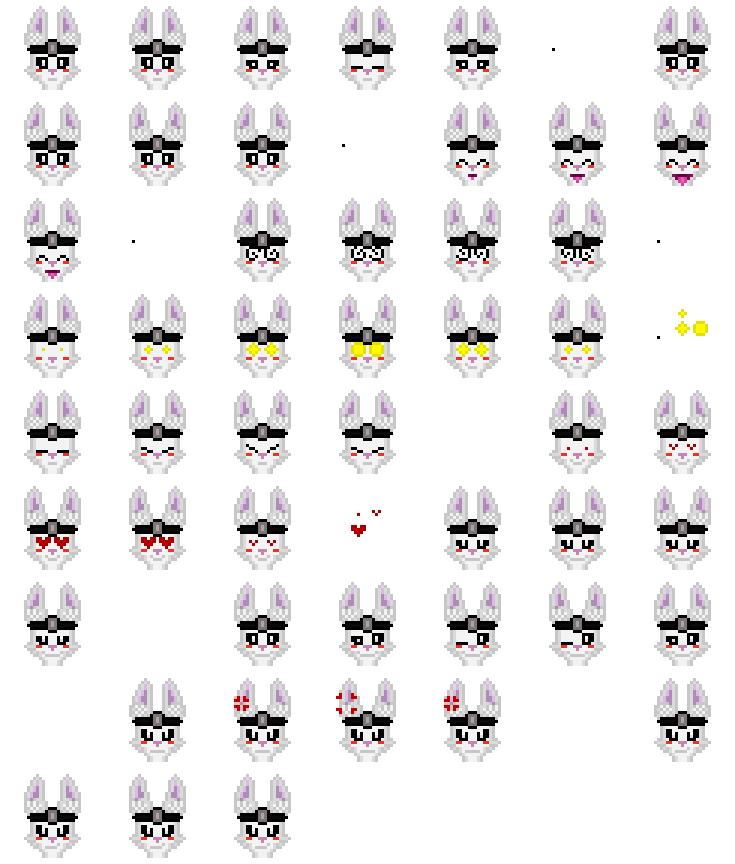
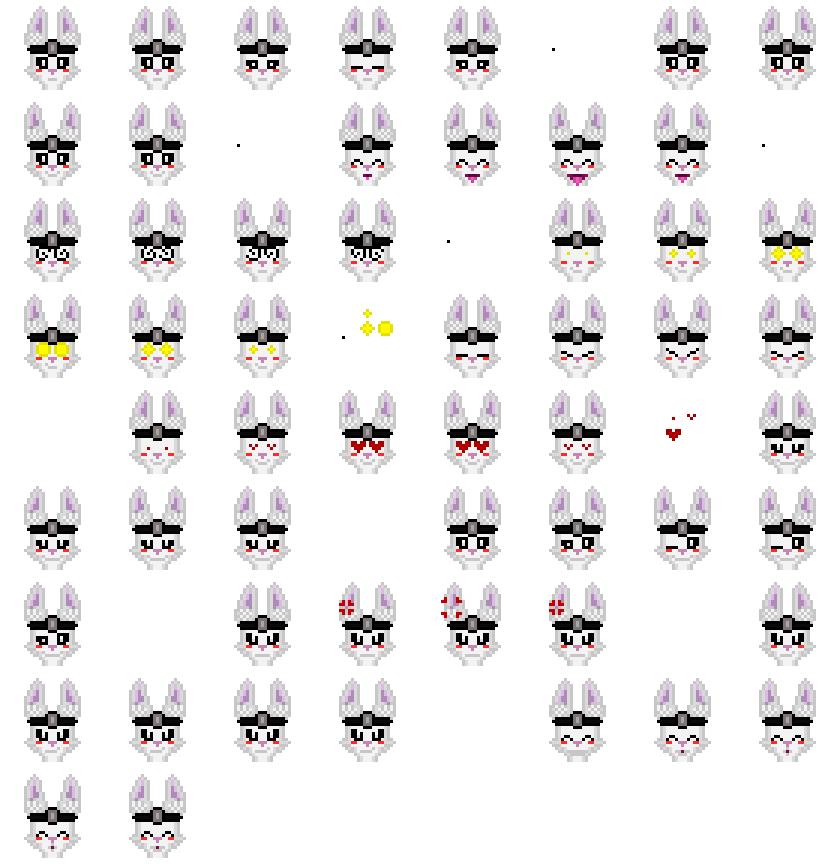
saving deaugh progress

diff --git a/scripts/npcScripts/wolf.js b/scripts/npcScripts/wolf.js
@@ -1,0 +1,84 @@
+//basic npc class of wolf.
+class wolf extends npc{
+    // every class needs constructor
+    constructor(scene, xPos, yPos,npcType){
+      
+      super(scene, xPos, yPos, 'deaugh');
+
+      //then we add new instance into the scene. 
+      scene.add.existing(this);
+
+      //then we call this next line to give it collision
+      scene.physics.add.existing(this);
+
+      this.anims.create({ key: 'idle', frames: this.anims.generateFrameNames('deaugh', { start: 0, end: 3 }), frameRate: 7, repeat: -1 });
+      
+      //makes a key promptsa object to be displayed to the user
+       this.npcKeyPrompts = new keyPrompts(scene, xPos, yPos + 80,'keyPrompts');
+       this.npcKeyPrompts.visible = false;
+       this.promptCooldown = false;
+ 
+       //more variables which help the sign object tell when to display prompts and textbox
+       this.playerOverlapingNpc = false;
+       this.safeToSpeak = false;
+       this.npcId = 0;
+       this.activated = false;
+       this.npcType = npcType;
+
+       this.flag = "";
+       this.dialogueCompleted = false;
+       this.completedText = false;
+
+       this.animationPlayed = false;
+       this.scene = scene;
+
+       this.inDialogue = false;
+
+       this.formattingText = false;
+
+       this.isPlayerControlled = false;
+
+       //this.body.setGravityY(600); 
+
+        this.setSize(60,200,true);
+        this.setOffset(185, 91);
+ 
+       if(this.npcType === 'healingPlayer'){
+          this.anims.play('idle');
+       }
+
+  }
+
+  //overwrites base npc classes function with flagging logic specific to wolf.
+  flagLogic(){
+    
+    //logic to decide what the npcs activated function is.
+    if(this.npcType === 'healingPlayer'){
+      this.healingPlayer();
+    }else{
+      
+      this.default();
+    }
+  }
+
+  MoveNPC(){
+  
+  }
+
+  healingPlayer(){
+
+    console.log("this.isPlayerControlled: ", this.isPlayerControlled)
+
+    //if(this.isPlayerControlled === false){
+      //this.nodeHandler("wolf","Behavior1","test");
+      //this.scene.player1.mainHitbox.x = this.x;
+    //}
+
+    
+
+    if(this.currentDictNode !== null){
+      
+    }
+  }
+
+}

diff --git a/scripts/sceneScripts/sceneHirarchy/G5InitNPCs.js b/scripts/sceneScripts/sceneHirarchy/G5InitNPCs.js
@@ -159,4 +159,27 @@ class G5InitNPCs extends G4InitGameObjects {
 
   }
 
+  initWolf(x, y, type){
+
+    //sets up the special text box object for nectar
+    this.sceneTextBox.textBoxProfileImage.setUpWolfEmots();
+    //create istara npc
+    let Wolf = new wolf(this, x, y, type);
+
+    Wolf.npcId = this.npcId;
+    this.npcId++;
+
+    //notice, we add vivian to both the trigger npcs group and the regular npc group
+    //this is so that the trigger dialogue always occurs first
+    //we then flag in the npc logic to changer the dialogue after the trigger version
+
+    if(type === "healingPlayer"){
+      //this.npcTriggers.add(wolf);
+      this.npcs.add(Wolf);  
+    }else{
+      this.npcs.add(Wolf);
+    }
+
+  }
+
 }

diff --git a/scripts/uiScripts/textBoxProfile.js b/scripts/uiScripts/textBoxProfile.js
@@ -75,4 +75,19 @@ class textBoxProfile extends Phaser.Physics.Arcade.Sprite{
       this.anims.create({key: 'nectarMad',frames: this.anims.generateFrameNames('nectarEmots', { start: 7, end: 7 }),frameRate: 5,repeat: -1});
       
     }
+
+    setUpWolfEmots(){
+      this.anims.create({key: 'wolfNeutral',frames: this.anims.generateFrameNames('wolfEmots', { start: 0, end: 4 }),frameRate: 5,repeat: -1});
+      this.anims.create({key: 'wolfHappy1',frames: this.anims.generateFrameNames('wolfEmots', { start: 6, end: 9 }),frameRate: 5,repeat: -1});
+      this.anims.create({key: 'wolfHappy2',frames: this.anims.generateFrameNames('wolfEmots', { start: 11, end: 14 }),frameRate: 5,repeat: -1});
+      this.anims.create({key: 'wolfKO',frames: this.anims.generateFrameNames('wolfEmots', { start: 16, end: 19 }),frameRate: 5,repeat: -1});
+      this.anims.create({key: 'wolfStarEyes',frames: this.anims.generateFrameNames('wolfEmots', { start: 21 , end: 26 }),frameRate: 5,repeat: -1});
+      this.anims.create({key: 'wolfConcentrate',frames: this.anims.generateFrameNames('wolfEmots', { start: 28 , end: 31 }),frameRate: 5,repeat: -1});
+      this.anims.create({key: 'wolfHeartEyes',frames: this.anims.generateFrameNames('wolfEmots', { start: 33 , end: 37 }),frameRate: 5,repeat: -1});
+      this.anims.create({key: 'wolfSmirk1',frames: this.anims.generateFrameNames('wolfEmots', { start: 39 , end: 42 }),frameRate: 5,repeat: -1});
+      this.anims.create({key: 'wolfWink',frames: this.anims.generateFrameNames('wolfEmots', { start: 44 , end: 48 }),frameRate: 5,repeat: -1});
+      this.anims.create({key: 'wolfMad',frames: this.anims.generateFrameNames('wolfEmots', { start: 50 , end:  53}),frameRate: 5,repeat: -1});
+      this.anims.create({key: 'wolfSmirk2',frames: this.anims.generateFrameNames('wolfEmots', { start: 55 , end:  59}),frameRate: 5,repeat: -1});
+      this.anims.create({key: 'wolfKiss',frames: this.anims.generateFrameNames('wolfEmots', { start: 61 , end:  65}),frameRate: 5,repeat: -1});
+    }
 }

diff --git a/scripts/levelScripts/lockwoodLevels/clinicRoom.js b/scripts/levelScripts/lockwoodLevels/clinicRoom.js
@@ -28,7 +28,10 @@ class ClinicRoom extends defaultScene {
       //loads the image with the tiles and the .json file of the tilemap
       this.load.image("castle_source_map" , "assets/tiledMap/LockWood/Castle_Interior_Tileset/Castle_Interior_Tileset.png");
       this.load.tilemapTiledJSON("clinic_room_map" , "assets/tiledMap/LockWood/Castle_Interior_Tileset/Clinic_Room.json");
-     
+      
+      this.load.spritesheet("wolfEmots" , "assets/hudElements/wolfEmots.png" , {frameWidth: 105 , frameHeight: 96 });
+      this.load.spritesheet("deaugh" , "assets/npcs/deaugh.png" , {frameWidth: 273 , frameHeight: 363 });
+      
 
       this.defaultPreload();
 
@@ -88,19 +91,24 @@ class ClinicRoom extends defaultScene {
       //this sets up the text box which will be used by the signs to display text.
       this.setUpTextBox();
 
+      
+
       this.initPortalsWithTransparency(386,728+25,862,760,"door1","WaitingRoom",0.75);
 
       
-      this.deaugh = this.add.sprite(665, 728+16, "deaugh");
+      /*this.deaugh = this.add.sprite(665, 728+16, "deaugh");
       this.deaugh.anims.create({ key: 'idle', frames: this.anims.generateFrameNames('deaugh', { start: 0, end: 3 }), frameRate: 7, repeat: -1 });
       this.deaugh.anims.play("idle", true);
-      this.deaugh.setScale(1/3);
+      this.deaugh.setScale(1/3);*/
+
  
       //sets up containers
       this.setUpContainers();
       //sets up item drops for the scene
       this.setUpItemDrops();
       this.setUpItemDropCollider();
+
+      this.initWolf(665, 728+16, 'healingPlayer');
 
       //time out function to spawn enemys. if they are not delayed then the physics is not properly set up on them.
       let thisScene = this;

diff --git a/scripts/levelScripts/lockwoodLevels/LockwoodBridges.js b/scripts/levelScripts/lockwoodLevels/LockwoodBridges.js
@@ -66,7 +66,7 @@ class LockwoodBridges extends defaultScene {
         "audio/used-audio/milo-theme-sounds/Milos Theme4.mp3"
       ]);
 
-      this.load.spritesheet("deaugh" , "assets/npcs/deaugh.png" , {frameWidth: 273 , frameHeight: 363 });
+      //this.load.spritesheet("deaugh" , "assets/npcs/deaugh.png" , {frameWidth: 273 , frameHeight: 363 });
       this.load.spritesheet("regi" , "assets/npcs/regi.png" , {frameWidth: 273 , frameHeight: 363 });
       
 

diff --git a/scripts/levelScripts/lockwoodLevels/waitingRoom.js b/scripts/levelScripts/lockwoodLevels/waitingRoom.js
@@ -57,8 +57,6 @@ class WaitingRoom extends defaultScene {
       //adds looping sound effect.
       this.initLoopingSound('calmSFX','Paws and Rest',0.05,"music");
 
-      //creates a group of slime objects
-      this.slimes = this.physics.add.group();
 
       //sets up the player key prompts for when the player is grabbed
       this.setUpKeyPrompts();

diff --git a/index.html b/index.html
@@ -242,6 +242,7 @@
   <script src="scripts/npcScripts/tutorial.js"></script>
   <script src="scripts/npcScripts/sign.js"></script>
   <script src="scripts/npcScripts/beeSecret.js"></script>
+  <script src="scripts/npcScripts/wolf.js"></script>
 
   <script src="scripts/cutsceneScripts/intro.js"></script>
 